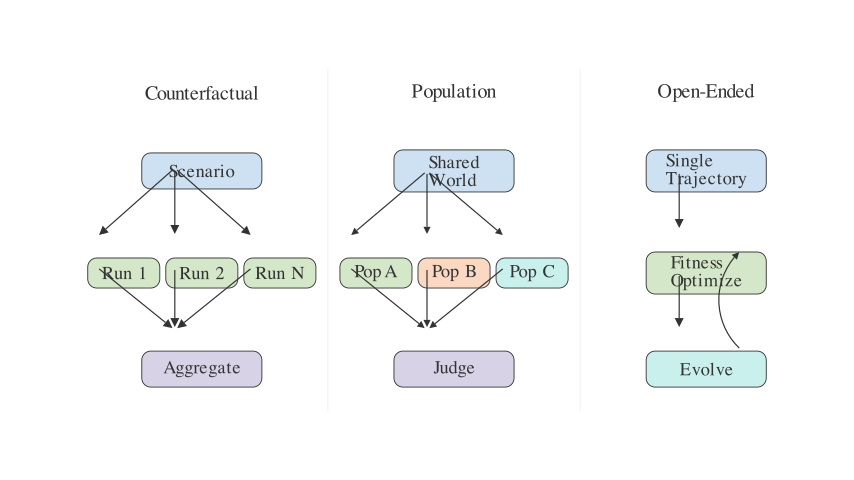
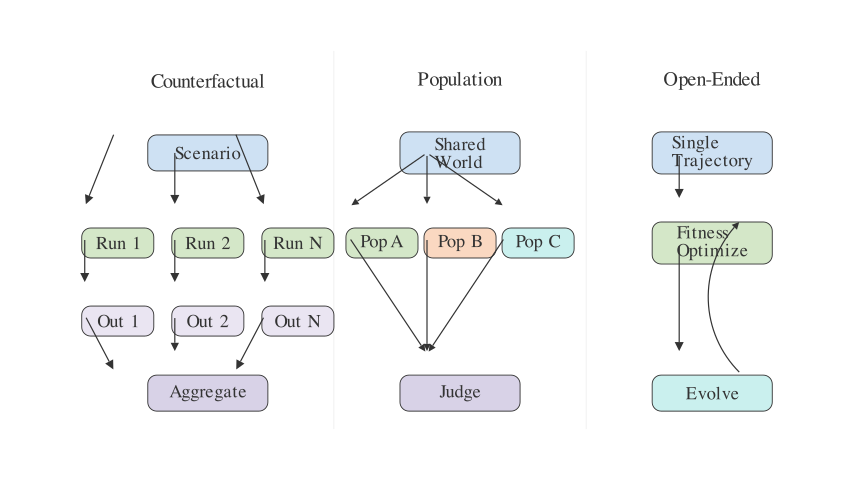
Fix Counterfactual column arrow crossings in SimulationModes scene
Fan arrows from Scenario left/bottom/right edges to runs instead of
all from center bottom. Add outcome boxes between runs and aggregate.
Widen run spacing to 1.5 and adjust y positions for the extra row.

diff --git a/visualizations/scenes.py b/visualizations/scenes.py
@@ -195,7 +195,7 @@ class SimulationModes(Scene):
         self.camera.background_color = WHITE
 
         col_x = [-4.2, 0, 4.2]
-        row_y = [2.8, 1.5, -0.2, -1.8]
+        row_y = [3.0, 1.8, 0.3, -1.0, -2.2]
 
         title_cf = Text("Counterfactual", color=DARK, font_size=24)
         title_pop = Text("Population", color=DARK, font_size=24)
@@ -211,19 +211,33 @@ class SimulationModes(Scene):
         runs = []
         for i, lbl in enumerate(["Run 1", "Run 2", "Run N"]):
             b = _box(lbl, GREEN, width=1.2, height=0.5)
-            b.move_to([col_x[0] - 1.3 + i * 1.3, row_y[2], 0])
+            b.move_to([col_x[0] - 1.5 + i * 1.5, row_y[2], 0])
             runs.append(b)
 
+        LIGHT_PURPLE = "#B8A9D4"
+        outs = []
+        for i, lbl in enumerate(["Out 1", "Out 2", "Out N"]):
+            b = _box(lbl, LIGHT_PURPLE, width=1.2, height=0.5)
+            b.move_to([col_x[0] - 1.5 + i * 1.5, row_y[3], 0])
+            outs.append(b)
+
         agg = _box("Aggregate", PURPLE, width=2.0, height=0.6)
-        agg.move_to([col_x[0], row_y[3], 0])
+        agg.move_to([col_x[0], row_y[4], 0])
 
-        cf_arrows = []
-        for r in runs:
-            cf_arrows.append(_arrow(scenario_box[0].get_bottom(), r[0].get_top()))
-        for r in runs:
-            cf_arrows.append(_arrow(r[0].get_bottom(), agg[0].get_top()))
+        cf_arrows = [
+            _arrow(scenario_box[0].get_left(), runs[0][0].get_top()),
+            _arrow(scenario_box[0].get_bottom(), runs[1][0].get_top()),
+            _arrow(scenario_box[0].get_right(), runs[2][0].get_top()),
+        ]
+        for r, o in zip(runs, outs):
+            cf_arrows.append(_arrow(r[0].get_bottom(), o[0].get_top()))
+        cf_arrows.extend([
+            _arrow(outs[0][0].get_bottom(), agg[0].get_left()),
+            _arrow(outs[1][0].get_bottom(), agg[0].get_top()),
+            _arrow(outs[2][0].get_bottom(), agg[0].get_right()),
+        ])
 
-        # Column 2: Population
+        # Column 2: Population (skip row_y[3] — no Outs row)
         world = _box("Shared\nWorld", BLUE, width=2.0, height=0.7)
         world.move_to([col_x[1], row_y[1], 0])
 
@@ -236,7 +250,7 @@ class SimulationModes(Scene):
             entities.append(b)
 
         judge = _box("Judge", PURPLE, width=2.0, height=0.6)
-        judge.move_to([col_x[1], row_y[3], 0])
+        judge.move_to([col_x[1], row_y[4], 0])
 
         pop_arrows = []
         for e in entities:
@@ -249,7 +263,7 @@ class SimulationModes(Scene):
                 color=DARK, stroke_width=2, tip_length=0.12, buff=0.05,
             ))
 
-        # Column 3: Open-Ended
+        # Column 3: Open-Ended (skip row_y[3] — no Outs row)
         single = _box("Single\nTrajectory", BLUE, width=2.0, height=0.7)
         single.move_to([col_x[2], row_y[1], 0])
 
@@ -257,7 +271,7 @@ class SimulationModes(Scene):
         fitness.move_to([col_x[2], row_y[2], 0])
 
         evolve = _box("Evolve", TEAL, width=2.0, height=0.6)
-        evolve.move_to([col_x[2], row_y[3], 0])
+        evolve.move_to([col_x[2], row_y[4], 0])
 
         oe_arrows = [
             _arrow(single[0].get_bottom(), fitness[0].get_top()),
@@ -269,17 +283,17 @@ class SimulationModes(Scene):
         )
 
         sep1 = Line(
-            np.array([-2.1, 3.2, 0]), np.array([-2.1, -2.5, 0]),
+            np.array([-2.1, 3.5, 0]), np.array([-2.1, -2.8, 0]),
             color=GRAY, stroke_width=1, stroke_opacity=0.3,
         )
         sep2 = Line(
-            np.array([2.1, 3.2, 0]), np.array([2.1, -2.5, 0]),
+            np.array([2.1, 3.5, 0]), np.array([2.1, -2.8, 0]),
             color=GRAY, stroke_width=1, stroke_opacity=0.3,
         )
 
         all_mobjects = VGroup(
             title_cf, title_pop, title_oe,
-            scenario_box, *runs, agg,
+            scenario_box, *runs, *outs, agg,
             world, *entities, judge,
             single, fitness, evolve,
             sep1, sep2,
@@ -292,7 +306,8 @@ class SimulationModes(Scene):
             run_time=0.3,
         )
         self.play(
-            FadeIn(scenario_box), *[FadeIn(r) for r in runs], FadeIn(agg),
+            FadeIn(scenario_box), *[FadeIn(r) for r in runs],
+            *[FadeIn(o) for o in outs], FadeIn(agg),
             run_time=0.3,
         )
         for a in cf_arrows:
